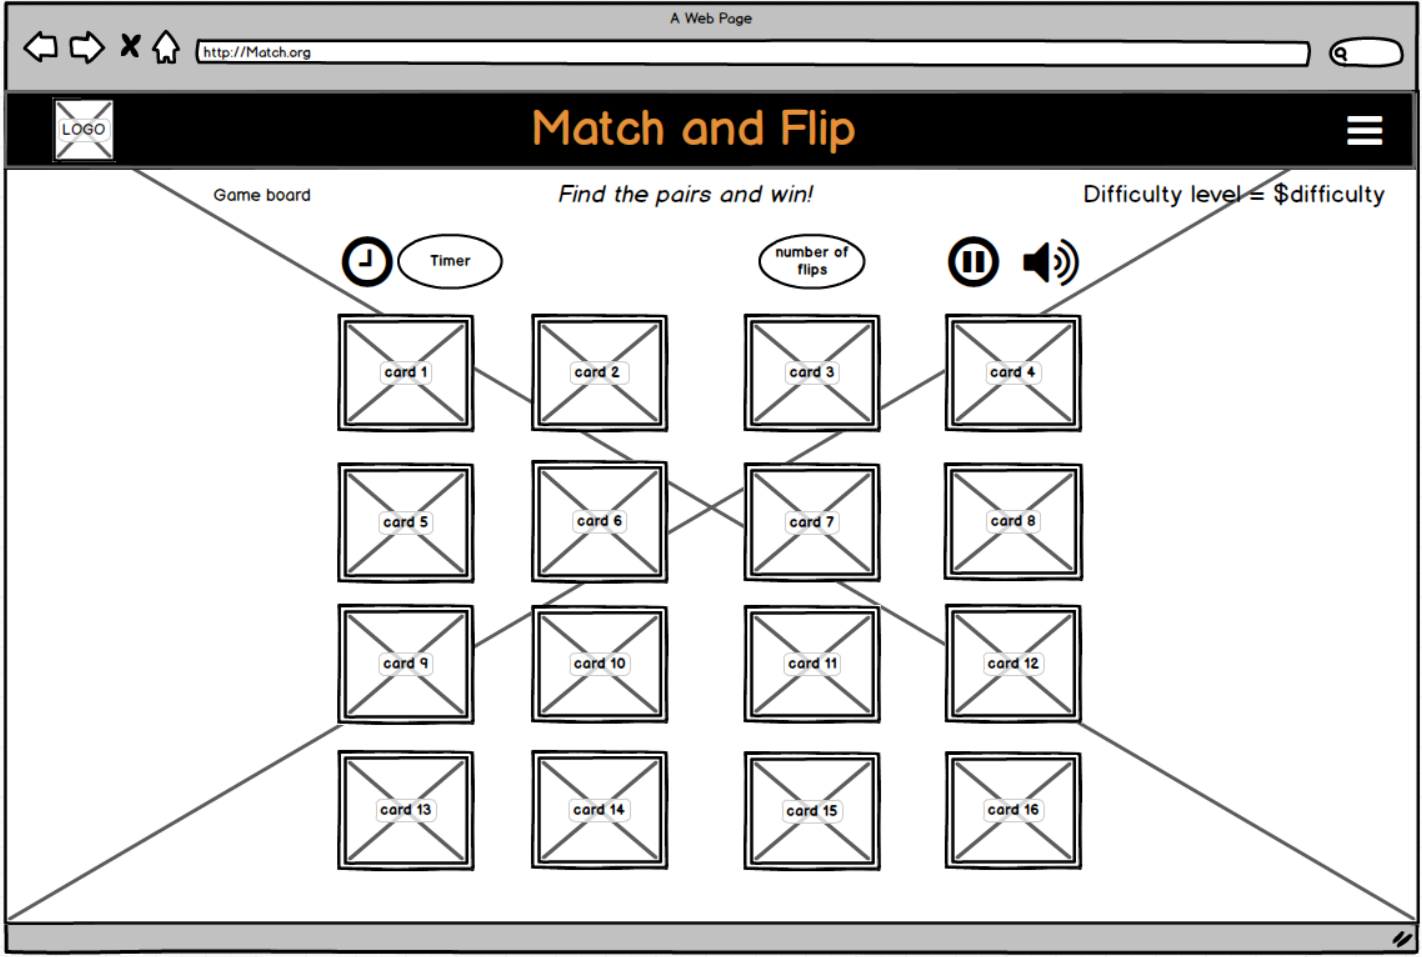
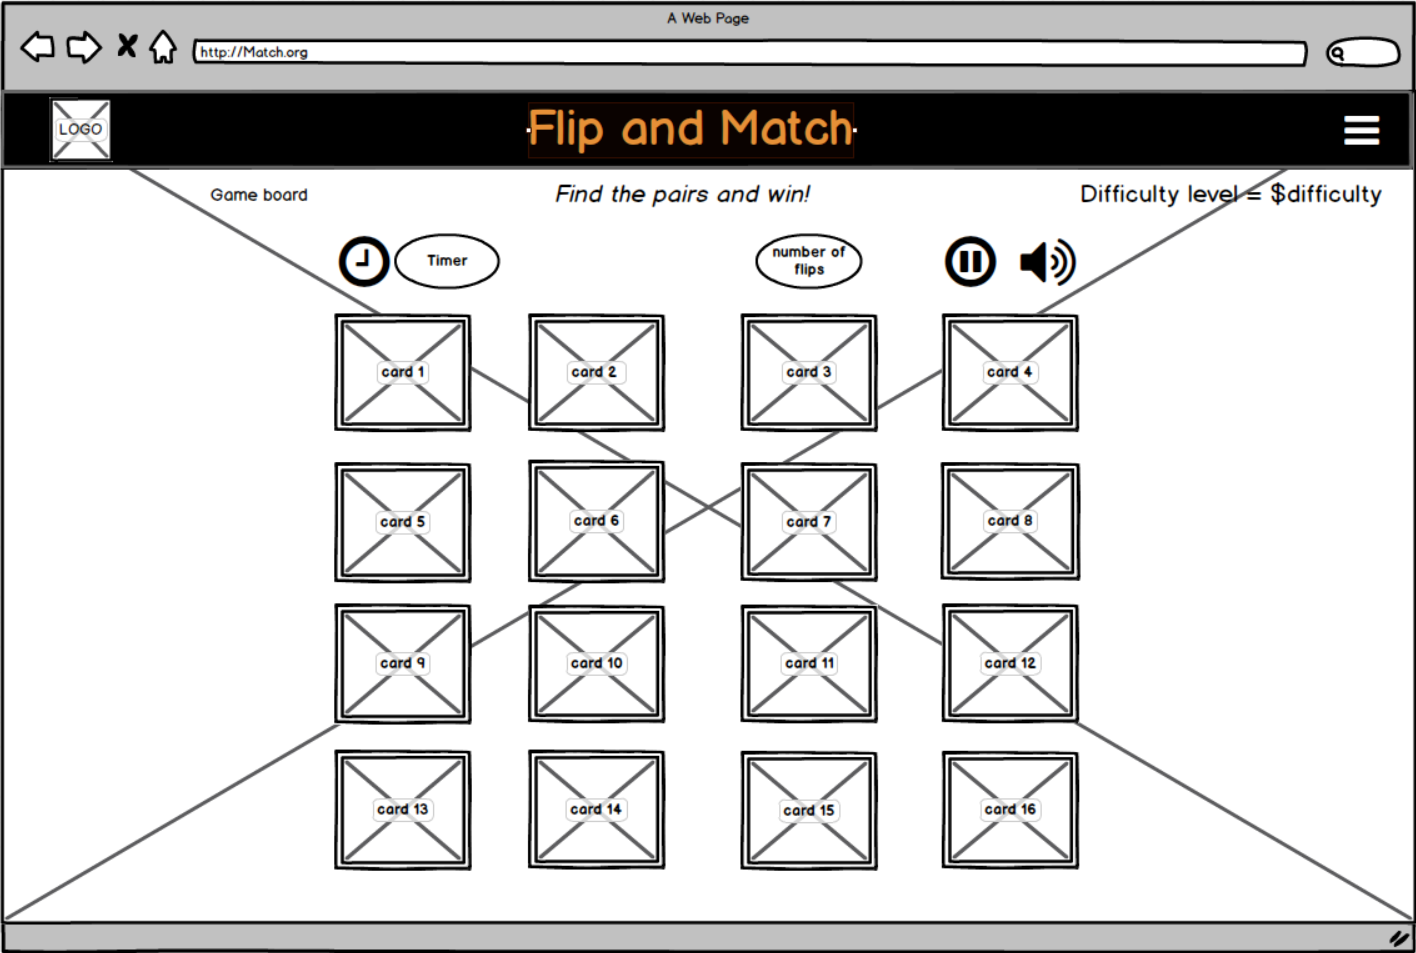
added grid-table and info elements

diff --git a/index.html b/index.html
@@ -22,27 +22,30 @@
 
 <body>
     <header>
-        <nav class="navbar navbar-expand-lg navbar-dark bg-custom fixed-top">
-            <!-- Logo -->
-            <a class="navbar-brand" aria-label="Brand Logo & Link to refresh" href="index.html">
-                <div><img src="assets/img/cards.png" alt="logo" title="Match and Flip Logo"></div>
+        <nav class="navbar navbar-expand-lg navbar-dark bg-custom">
+            <a class="navbar-brand aria-label="Brand Logo & Link to refresh" href="index.html">
+            <img src="assets/img/cards.png" alt="logo" title="Flip and Match Logo">
             </a>
-                <h1 class="page-title m-0">Match and Flip</h1>
-                <button class="navbar-toggler" type="button" data-toggle="collapse" data-target="#navbarNavDropdown" aria-controls="navbarNavDropdown" aria-expanded="false" aria-label="Toggle navigation">
-                    <span class="navbar-toggler-icon"></span>
-                </button>
-                <!-- Navigation links -->
-                <div class="collapse navbar-collapse" id="navbarNavDropdown">
-                    <ul class="navbar-nav ml-auto">
-                        <li class="nav-item">
-                            <a class="nav-link" aria-label="Open Settings Menu" href="#"
-                                id="menu">Menu <i class="fas fa-tools"></i></a>
-                        </li>
-                    </ul>
-                </div>
+            <span class="navbar-text">Flip and Match</span>
+            <button class="navbar-toggler" type="button" data-toggle="collapse" data-target="#navbarNavDropdown" aria-controls="navbarNavDropdown" aria-expanded="false" aria-label="Toggle navigation">
+                <span class="navbar-toggler-icon"></span>
+            </button>
+            <div class="collapse navbar-collapse" id="navbarNavDropdown">
+                <ul class="navbar-nav ml-auto">
+                    <li class="nav-item">
+                        <a class="nav-link" href="#">Theme</a>
+                    </li>
+                    <li class="nav-item">
+                        <a class="nav-link" href="#">Difficulty</a>
+                    </li>
+                    <li class="nav-item">
+                        <a class="nav-link" href="#">Audio</a>
+                    </li>
+                </ul>
+            </div>
         </nav>
-<!-- 
-        <div class="overlay-text visible">
+
+        <!-- <div class="overlay-text visible">
             Click to Start
         </div>
         <div id="game-over-text" class="overlay-text">
@@ -52,29 +55,30 @@
         <div id="victory-text" class="overlay-text">
             VICTORY
             <span class="overlay-text-small">Click to Restart</span>
-        </div>
- -->
-
-	<div class="game-container">
-		<div class="game-info-container">
-			<div class="game-info"><i class="far fa-clock"></i>
-				Time <span id="time-remaining">99</span>
-			</div>
-			<div class="game-info">
-				Flips <span id="flips">0</span>
-			</div>
-            <div class="game-info">Pause <i class="far fa-pause-circle"></i>
-				<span id="pause"></span>
-			</div>
-            <div class="game-info">Volume <i class="fas fa-volume-up"></i>
-				<span id="audio"></span>
-			</div>
-		</div>
-    </div>
-
+        </div> -->
     </header>
+ 
+    <section>
+          <div class="game-container">
+            <h3>Find the pairs and win</h3>
+            <div class="game-info-container">
+                <div class="game-info"><i class="far fa-clock"></i>
+                    Time <span id="time-remaining">99</span>
+                </div>
+                <div class="game-info">
+                    Flips <span id="flips">0</span>
+                </div>
+                <div class="game-info"><i class="far fa-pause-circle"></i>
+                    <span id="pause"></span>
+                </div>
+                <div class="game-info"><i class="fas fa-volume-up"></i>
+                    <span id="audio"></span>
+                </div>
+            </div>
+        </div>
+    </section>
 
-    <section class="memory-game">
+<!-- <section class="memory-game container-fluid">
         <div class="memory-card">
             <div class="card-back card-face">
                 <img class="back-face" src="assets/img/back-face-card.png">
@@ -218,7 +222,7 @@
                 <img class="front-face" src="">
             </div>
         </div>
-    </section>
+    </section> -->
 
     <!-- jQuery first, then Popper.js, then Bootstrap JS -->
     <script src="https://code.jquery.com/jquery-3.4.1.slim.min.js"

diff --git a/assets/css/style.css b/assets/css/style.css
@@ -4,8 +4,9 @@
   box-sizing: border-box;
 }
 
-html {
+html, body {
     height: 100vh;
+    width: 100vw;
 }
 
 body {
@@ -25,28 +26,44 @@ body {
     padding: 5px;
 }
 
-.page-title {
-  color: #f88306;
-  font-family: 'Rock Salt', cursive;
-  font-weight: normal;
-  text-align: center;
-  font-size: 2em;
+span.navbar-text {
+    color: #f88306 !important; 
+    font-family: 'Rock Salt', cursive;
+    font-weight: normal;
+    text-align: center;
+    font-size: 2em;
 }
 
-.navbar ul li a {
+.navbar ul li a {    
     font-size: 1.5rem;
 }
 
-.fa-tools {
+/* .fa-tools {
     color: #e28800;
     padding: 0 5px;
+} */
+
+/* Info section */
+
+.game-container h3 {
+    margin: 15px;
+    padding: 5px;
+    text-align: center;
+    font-family: 'Raleway', sans-serif;
+    font-size: 2em;
+    color: #290909;
 }
 
-.game-info-container {
-  margin-top: 100px;
+.game-container {
+    position: relative;
+  margin-top: 40px;
   margin-bottom: 40px;
-  grid-column-end: 1 / -2;
+ -ms-grid-column-span: 1 / -1;
+  grid-column-end: 1 / -1;
+  display: -webkit-box;
+  display: -ms-flexbox;
   display: flex;
+  -ms-flex-pack: distribute;
   justify-content: space-around;
 }
 
@@ -59,12 +76,17 @@ body {
 /* Game board */
 
 .memory-game {
+  display: -ms-grid;
   display: grid;
+  -ms-grid-columns: auto 10px auto 10px auto 10px auto;
   grid-template-columns: repeat(4, auto);
   grid-gap: 10px;
   margin: 50px;
-  justify-content: center;
-  perspective: 500px;
+  -webkit-box-pack: center;
+      -ms-flex-pack: center;
+          justify-content: center;
+  -webkit-perspective: 500px;
+          perspective: 500px;
 }
 
 .memory-card {
@@ -73,12 +95,19 @@ body {
   width: 125px;
 
 .memory-card:active {
-  transform: scale(0.97);
+  -webkit-transform: scale(0.97);
+      -ms-transform: scale(0.97);
+          transform: scale(0.97);
+  -webkit-transition: -webkit-transform .2s;
+  transition: -webkit-transform .2s;
+  -o-transition: transform .2s;
   transition: transform .2s;
+  transition: transform .2s, -webkit-transform .2s;
 }
 
 .memory-card.flip {
-  transform: rotateY(180deg);
+  -webkit-transform: rotateY(180deg);
+          transform: rotateY(180deg);
 }
 
 .back-face {
@@ -95,21 +124,27 @@ body {
   position: absolute;
   border-radius: 5px;
   background: #382bad;
-  backface-visibility: hidden;
-  transform: rotateY(180deg);
+  -webkit-backface-visibility: hidden;
+          backface-visibility: hidden;
+  -webkit-transform: rotateY(180deg);
+          transform: rotateY(180deg);
 }
 
 /* Overlay text */
 
-.overlay-text {
+/* .overlay-text {
   display: none;
   position: fixed;
   top: 0;
   left: 0;
   right: 0;
   bottom: 0;
-  justify-content: center;
-  align-items: center;
+  -webkit-box-pack: center;
+      -ms-flex-pack: center;
+          justify-content: center;
+  -webkit-box-align: center;
+      -ms-flex-align: center;
+          align-items: center;
   z-index: 100;
   color: #5eff00;
   font-family: 'Rock Salt', cursive;
@@ -120,15 +155,23 @@ body {
 }
 
 .overlay-text.visible {
+  display: -webkit-box;
+  display: -ms-flexbox;
   display: flex;
-  flex-direction: column;
-  animation: overlay-grow 500ms forwards;
-}
+  -webkit-box-orient: vertical;
+  -webkit-box-direction: normal;
+      -ms-flex-direction: column;
+          flex-direction: column;
+  -webkit-animation: overlay-grow 500ms forwards;
+          animation: overlay-grow 500ms forwards;
+} */
 
 /* Media Queries */
 
-@media (max-width: 600px) {
-  .game-container {
+@media (max-width: 575.98px) {
+
+   .game-container {
+    font-size: 1em;
     grid-template-columns: repeat(2, auto);
   }
 
